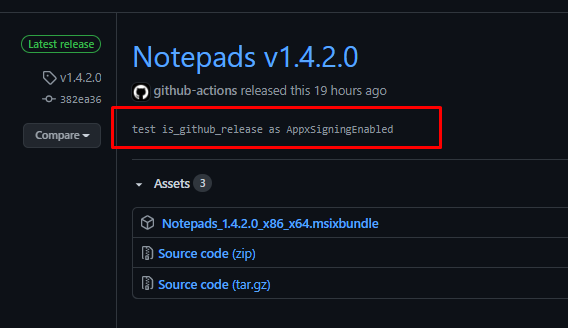
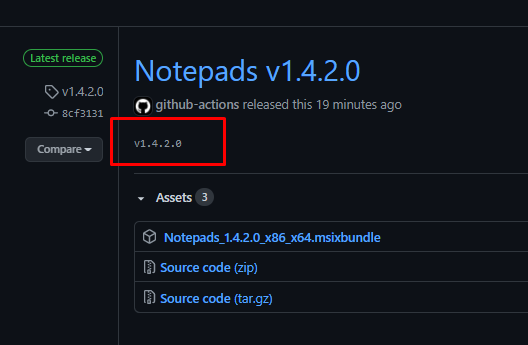
complete Create Release sequence documentation entry

diff --git a/CI-CD_DOCUMENTATION.md b/CI-CD_DOCUMENTATION.md
@@ -240,7 +240,7 @@ To add more descriptions, follow these steps:
 
 ## 5. Automated GitHub release
 
-This feature automatically bumps up the GitHub tag in the repo, creates a GitHub release with the new tag and attaches the msixbundle to it
+Automatically bumps up the GitHub tag in the repo, creates a GitHub release with the new tag and attaches the msixbundle to it
 
 #### Setup
 
@@ -262,7 +262,7 @@ Add the following secrets by going to the repo **Settings** tab -> **Secrets**:
 # read from PFX as binary
 $PFX_FILE = [IO.File]::ReadAllBytes('absolute_path_to_PFX')
 # convert to Base64 and write in txt
-[System.Convert]::ToBase64String($PFX_FILE) | Out-File 'cert.txt'
+[System.Convert]::ToBase64String($PFX_FILE) | Out-File 'absolute_path\cert.txt'
 ```
 
 - copy the contents of the **cert.txt** and paste as the value of the secret
@@ -286,9 +286,11 @@ Follow these steps to trigger the automated GitHub release process:
 If the setup was done correctly and there are no errors in the pipeline, when the pipeline successfully completes, there should be a new, properly tagged GitHub release with the msixbundle attached to it.
 
 NOTE: 
-- the message of your last commit (head_commit) is used as the required description of the newly created tag, which appears here:
+- the tag itself is used as the required description of the newly created tag, which appears here:
 
 ![Release_1](/ScreenShots/CI-CD_DOCUMENTATION/Release_1.png)
+
+- it is replaced by the release description
 
 ![Release_2](/ScreenShots/CI-CD_DOCUMENTATION/Release_2.png)
 
